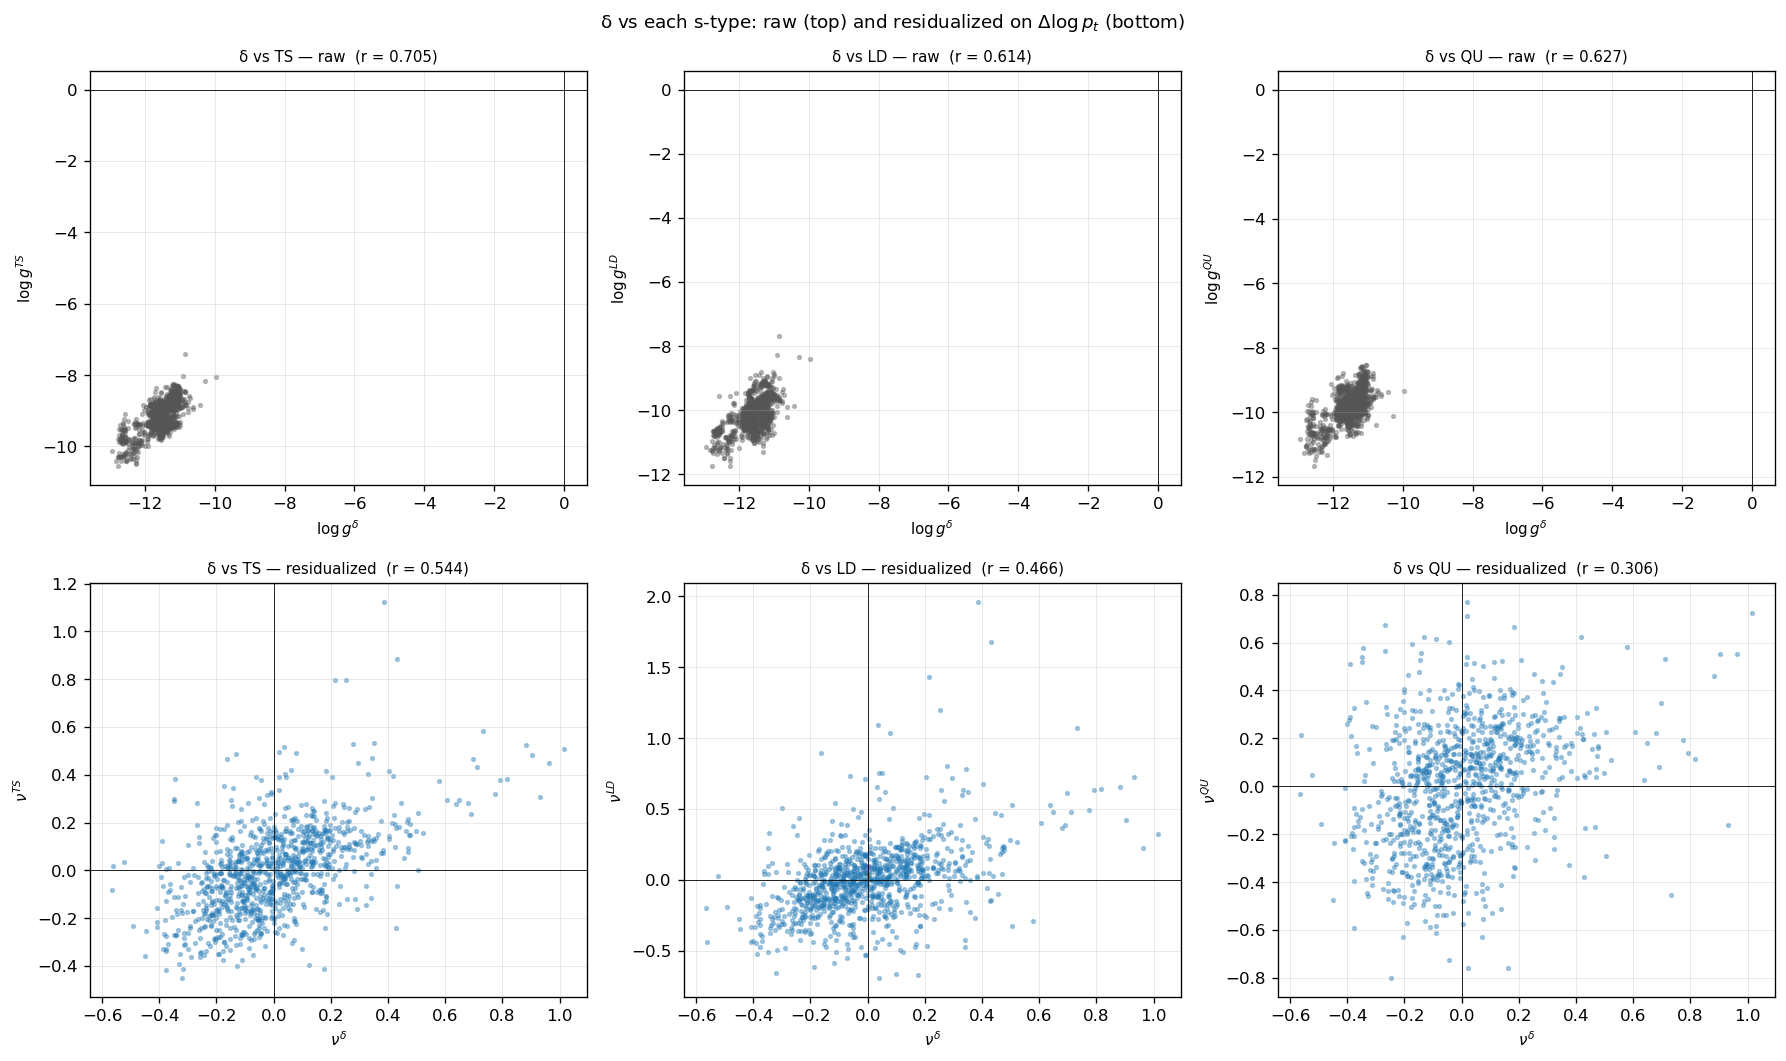
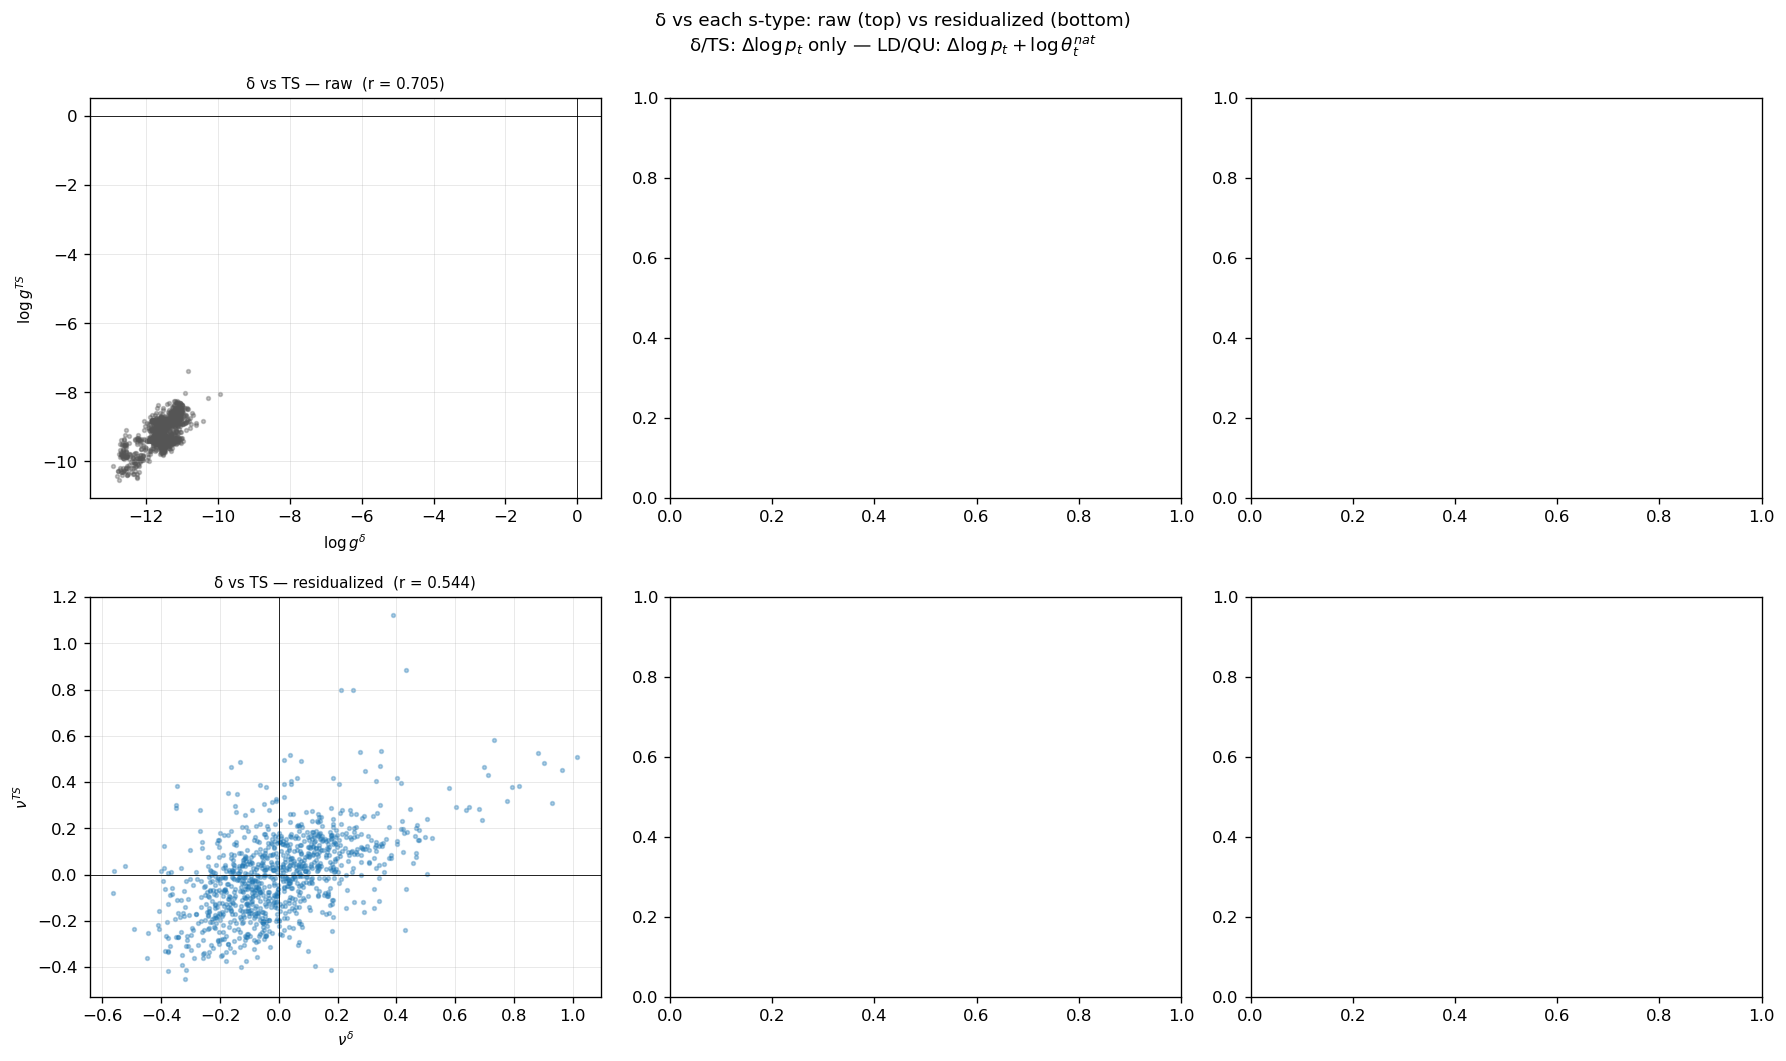
Start change in residualization

diff --git a/Data/Bartek analysis/part2b_shock_comovement.py b/Data/Bartek analysis/part2b_shock_comovement.py
@@ -7,23 +7,38 @@ aggregation).
 Purpose
 -------
 In the model, δ and s are exogenous AR(1) processes independent of technology
-z.  In the data, both series contain an endogenous component driven by
-aggregate productivity: firms close and workers separate partly because
-productivity falls.  This file asks two questions:
+z.  In the data, both series contain endogenous components driven by aggregate
+productivity and/or labor-market tightness.  This file asks two questions:
 
   1. How much do g^δ and g^s co-move across industries and over time?
      High co-movement implies the Bartik instruments B^δ and B^s will be
      nearly collinear, undermining separate identification.
 
-  2. How much of that co-movement is explained by aggregate productivity?
-     We follow Coles-Kelishomi (2018), who find corr(p_t, δ_t) = −0.63,
-     and residualize each series on productivity to isolate the idiosyncratic
-     component.  The regressor is Δlog p_t (quarterly log-growth) rather
-     than log-levels, which have a trend and would produce spurious
-     coefficients.
+  2. How much of that co-movement is explained by aggregate productivity
+     and market tightness?  We residualize each series on the appropriate
+     aggregate controls to isolate the idiosyncratic component.
 
-Regression:
-    log g^k_{j,t} = α_j + γ_k Δlog p_t + ν^k_{j,t},   k ∈ {δ, s}
+Residualization strategy (shock-specific):
+    log g^δ_{j,t}  = α_j + γ_δ  Δlog p_t                     + ν^δ_{j,t}
+    log g^TS_{j,t} = α_j + γ_TS Δlog p_t                     + ν^TS_{j,t}
+    log g^LD_{j,t} = α_j + γ_LD Δlog p_t + λ_LD log θ_t^nat  + ν^LD_{j,t}
+    log g^QU_{j,t} = α_j + γ_QU Δlog p_t + λ_QU log θ_t^nat  + ν^QU_{j,t}
+
+Motivation:
+    δ    — endogenous product-line destruction driven by idiosyncratic
+            productivity draws; Δlog p_t is the appropriate control.
+    LD   — employer-initiated layoffs respond to both productivity and
+            aggregate demand (tightness raises retention costs); both
+            controls are included.
+    QU   — quit propensity is driven by outside options summarised by
+            market tightness θ = V/U; both controls are included.
+    TS   — total separations = LD + QU; productivity control only
+            (dominated by LD in recessions; tightness channel addressed
+            by the separate LD/QU decomposition).
+
+θ_t^nat = V_t^nat / U_t^nat: national JOLTS job openings ÷ civilian
+unemployment (both seasonally adjusted, levels).  log θ_t is stationary
+so it enters in log-levels; Δlog p_t is used because log p has a trend.
 
 The residuals ν^δ and ν^s are the closest empirical analog to the truly
 exogenous shocks in the model.
@@ -80,7 +95,8 @@ from construct_s_instrument import (
 )
 
 # ── paths ──────────────────────────────────────────────────────────────────
-PROD_CACHE    = DEFAULT_CACHE_DIR / "ophnfb_quarterly.parquet"
+PROD_CACHE      = DEFAULT_CACHE_DIR / "ophnfb_quarterly.parquet"
+TIGHTNESS_CACHE = DEFAULT_CACHE_DIR / "national_tightness_quarterly.parquet"
 RESID_D_PATH  = DEFAULT_OUTPUT_DIR / "shock_rates_delta_resid.parquet"
 RESID_S_PATH  = DEFAULT_OUTPUT_DIR / "shock_rates_s_resid.parquet"
 RESID_LD_PATH = DEFAULT_OUTPUT_DIR / "shock_rates_ld_resid.parquet"
@@ -207,6 +223,46 @@ nat = nat.merge(prod[["quarter_label", "dlog_p", "dlog_p_yoy"]],
                 on="quarter_label", how="inner")
 print(f"After merging productivity: {len(nat):,} industry-quarter obs")
 
+# ── 3b. national market tightness ──────────────────────────────────────────
+# θ_t^nat = V_t^nat / U_t^nat  (JOLTS job openings ÷ civilian unemployment,
+# both SA levels in thousands).  Monthly → quarterly by averaging within
+# quarter.  log θ is stationary so we use log-levels as the regressor.
+# JOLTS starts 2000M12; first complete quarter is 2001Q1 — which is already
+# the binding start of the overlapping sample.
+
+if TIGHTNESS_CACHE.exists():
+    tight = pd.read_parquet(TIGHTNESS_CACHE)
+    print(f"\nTightness: loaded from cache ({TIGHTNESS_CACHE})")
+else:
+    print("\nFetching national tightness (JTSJOL, UNEMPLOY) from FRED ...")
+    api_key = os.environ.get("FRED_API_KEY", "")
+    if not api_key:
+        raise EnvironmentError(
+            "FRED_API_KEY environment variable not set.\n"
+            "Register at https://fred.stlouisfed.org/docs/api/api_key.html "
+            "and set the variable before running."
+        )
+    fred    = Fred(api_key=api_key)
+    vac_m   = fred.get_series("JTSJOL")     # job openings, thousands, SA
+    unemp_m = fred.get_series("UNEMPLOY")   # unemployment, thousands, SA
+    tight_m = pd.DataFrame({"vac": vac_m, "unemp": unemp_m}).dropna()
+    tight_m.index = pd.to_datetime(tight_m.index)
+    tight_m["quarter_label"] = tight_m.index.map(_dt_to_ql)
+    tight = (tight_m.groupby("quarter_label")[["vac", "unemp"]]
+                    .mean().reset_index())
+    tight["theta"]     = tight["vac"] / tight["unemp"]
+    tight["log_theta"] = np.log(tight["theta"])
+    tight = tight[["quarter_label", "log_theta"]].copy()
+    tight.to_parquet(TIGHTNESS_CACHE, index=False)
+    print(f"  Saved: {TIGHTNESS_CACHE}")
+
+tight = tight.sort_values("quarter_label").reset_index(drop=True)
+print(f"  Tightness: {tight['quarter_label'].min()} – "
+      f"{tight['quarter_label'].max()}  ({len(tight)} quarters)")
+
+nat = nat.merge(tight, on="quarter_label", how="inner")
+print(f"After merging tightness: {len(nat):,} industry-quarter obs")
+
 # ── 4. residualization ─────────────────────────────────────────────────────
 # Regression:  log g^k_{j,t} = α_j + γ_k Δlog p_t + ν^k_{j,t}
 # Industry FEs absorbed via within-transformation (subtract industry means).
@@ -215,32 +271,43 @@ print(f"After merging productivity: {len(nat):,} industry-quarter obs")
 # residual as a named column.  We merge back into nat rather than assigning
 # into it directly, which is the most robust approach across pandas versions.
 
-def _residualize(df, dep_col, resid_col, prod_col="dlog_p"):
+def _residualize(df, dep_col, resid_col, reg_cols=("dlog_p",)):
     """
-    OLS of dep_col on industry FEs + prod_col.
-    Prints γ and within-R².
+    Within-industry OLS of dep_col on industry FEs + reg_cols.
+
+    reg_cols : tuple of column names to use as regressors alongside
+               industry fixed effects.  Homogeneous coefficients across
+               industries (single γ / λ per regressor).
 
     df must be sorted by [industry_code, quarter_label] with a clean
     0-based index (call nat.sort_values(...).reset_index(drop=True) first).
     Returns a DataFrame with the same row order as df and a column named
     resid_col containing the residuals as a numpy-backed float64 series.
     """
-    # Work on a fresh 0-based copy in the same row order as df.
-    work = df[["industry_code", dep_col, prod_col]].copy().reset_index(drop=True)
+    work = df[["industry_code", dep_col, *reg_cols]].copy().reset_index(drop=True)
 
-    # Within-transform: subtract each industry's mean.
+    # Within-transform: subtract each industry's time-mean.
     work["y_dm"] = (work[dep_col]
                     - work.groupby("industry_code")[dep_col].transform("mean"))
-    work["p_dm"] = (work[prod_col]
-                    - work.groupby("industry_code")[prod_col].transform("mean"))
+    dm_cols = []
+    for rc in reg_cols:
+        dc = f"_dm_{rc}"
+        work[dc] = (work[rc]
+                    - work.groupby("industry_code")[rc].transform("mean"))
+        dm_cols.append(dc)
 
-    gamma  = ((work["y_dm"] * work["p_dm"]).sum()
-              / (work["p_dm"] ** 2).sum())
-    resid  = (work["y_dm"] - gamma * work["p_dm"]).to_numpy()   # plain numpy array
-    ss_tot = (work["y_dm"] ** 2).sum()
+    X_dm   = work[dm_cols].to_numpy()          # (n, K)
+    y_dm   = work["y_dm"].to_numpy()           # (n,)
+    gammas = np.linalg.lstsq(X_dm, y_dm, rcond=None)[0]   # (K,)
+    resid  = y_dm - X_dm @ gammas
+
+    ss_tot = (y_dm ** 2).sum()
     r2     = 1 - (resid ** 2).sum() / ss_tot if ss_tot > 0 else np.nan
 
-    print(f"  {resid_col:<10}  γ = {gamma:+.4f}   R²(within) = {r2:.4f}")
+    coef_str = "  ".join(
+        f"γ({rc}) = {g:+.4f}" for rc, g in zip(reg_cols, gammas)
+    )
+    print(f"  {resid_col:<12}  {coef_str}   R²(within) = {r2:.4f}")
 
     out = df[["industry_code", "quarter_label"]].copy().reset_index(drop=True)
     out[resid_col] = resid
@@ -251,11 +318,17 @@ def _residualize(df, dep_col, resid_col, prod_col="dlog_p"):
 # row order, so returned arrays align positionally with nat's rows.
 nat = nat.sort_values(["industry_code", "quarter_label"]).reset_index(drop=True)
 
-print(f"\n--- Productivity regression  (\u0394log p_t, quarterly growth) ---")
-resid_d  = _residualize(nat, "log_g_delta", "nu_delta")
-resid_s  = _residualize(nat, "log_g_s",     "nu_s")
-resid_ld = _residualize(nat, "log_g_ld",    "nu_ld")
-resid_qu = _residualize(nat, "log_g_qu",    "nu_qu")
+print(f"\n--- Residualization (within-industry OLS) ---")
+print(f"  δ,  TS : regressors = [Δlog p_t]")
+print(f"  LD, QU : regressors = [Δlog p_t,  log θ_t^nat]")
+resid_d  = _residualize(nat, "log_g_delta", "nu_delta",
+                        reg_cols=("dlog_p",))
+resid_s  = _residualize(nat, "log_g_s",     "nu_s",
+                        reg_cols=("dlog_p",))
+resid_ld = _residualize(nat, "log_g_ld",    "nu_ld",
+                        reg_cols=("dlog_p", "log_theta"))
+resid_qu = _residualize(nat, "log_g_qu",    "nu_qu",
+                        reg_cols=("dlog_p", "log_theta"))
 
 nat["nu_delta"] = resid_d["nu_delta"].to_numpy()
 nat["nu_s"]     = resid_s["nu_s"].to_numpy()
@@ -365,11 +438,32 @@ print(f"\nPlot A saved: {p}")
 # ── plot B: cross-industry correlation heatmaps, 2×4 grid ─────────────────
 # Row 1: raw series; Row 2: residualized
 def _corr_matrix(df, col):
-    """Cross-industry Pearson r matrix (industries × industries)."""
-    wide = df.pivot_table(index="quarter_label",
-                          columns="industry_label",
-                          values=col, aggfunc="mean")
-    return wide.corr()
+    """Cross-industry Pearson r matrix (industries × industries).
+
+    Builds the quarter × industry matrix via direct numpy integer indexing,
+    completely bypassing pandas groupby / pivot_table / pivot — all of which
+    have version-specific bugs in pandas 2.x that silently drop the aggregated
+    column from the result (causing KeyError on the subsequent values lookup).
+
+    nat is already aggregated at (industry_code, quarter_label) level, so each
+    (quarter_label, industry_label) cell holds at most one value; if a
+    duplicate somehow exists the last row wins (harmless).
+    """
+    sub = (df[["quarter_label", "industry_label", col]]
+           .dropna(subset=[col])
+           .reset_index(drop=True))
+    quarters   = sorted(sub["quarter_label"].unique())
+    industries = sorted(sub["industry_label"].unique())
+    if not quarters or not industries:
+        return pd.DataFrame()
+    q_map = {q: i for i, q in enumerate(quarters)}
+    i_map = {ind: i for i, ind in enumerate(industries)}
+    mat = np.full((len(quarters), len(industries)), np.nan)
+    qi = sub["quarter_label"].map(q_map).to_numpy(dtype=int)
+    ii = sub["industry_label"].map(i_map).to_numpy(dtype=int)
+    mat[qi, ii] = sub[col].to_numpy()
+    wide = pd.DataFrame(mat, index=quarters, columns=industries)
+    return wide.dropna(how="all", axis=1).corr()
 
 hmap_panels = [
     (r"$\log g^\delta$ raw",  "log_g_delta"),
@@ -441,7 +535,9 @@ for col_idx, (lbl, rx, ry, nx, ny, rxl, ryl, nxl, nyl) in enumerate(scatter_pair
     ax.axvline(0, color="black", linewidth=0.5)
     ax.grid(linewidth=0.4, alpha=0.4)
 fig.suptitle(
-    r"δ vs each s-type: raw (top) and residualized on $\Delta\log p_t$ (bottom)",
+    r"δ vs each s-type: raw (top) vs residualized (bottom)"
+    "\n"
+    r"δ/TS: $\Delta\log p_t$ only — LD/QU: $\Delta\log p_t + \log\theta_t^{nat}$",
     fontsize=11,
 )
 fig.tight_layout()

diff --git a/Data/Bartek analysis/part3_resid_instruments.py b/Data/Bartek analysis/part3_resid_instruments.py
@@ -1,16 +1,19 @@
 """
-part3_resid_instruments.py — Bartik instruments from productivity-residualized shocks
-======================================================================================
-Constructs productivity-residualized Bartik instruments for all four shock
-series produced by part2b_shock_comovement.py:
+part3_resid_instruments.py — Bartik instruments from residualized shocks
+=========================================================================
+Constructs residualized Bartik instruments for all four shock series
+produced by part2b_shock_comovement.py:
 
     B̃^δ_{s,t}  = Σ_j  ω_{s,j}  ν^δ_{j,t}    (product-line destruction)
     B̃^TS_{s,t} = Σ_j  ω_{s,j}  ν^TS_{j,t}   (total separations)
     B̃^LD_{s,t} = Σ_j  ω_{s,j}  ν^LD_{j,t}   (layoffs and discharges)
     B̃^QU_{s,t} = Σ_j  ω_{s,j}  ν^QU_{j,t}   (quits)
 
-where ν^k_{j,t} are residuals from:
-    log g^k_{j,t} = α_j + γ_k Δlog p_t + ν^k_{j,t}
+where ν^k_{j,t} are residuals from shock-specific regressions (see part2b):
+    log g^δ_{j,t}  = α_j + γ_δ  Δlog p_t                    + ν^δ_{j,t}
+    log g^TS_{j,t} = α_j + γ_TS Δlog p_t                    + ν^TS_{j,t}
+    log g^LD_{j,t} = α_j + γ_LD Δlog p_t + λ_LD log θ_t^nat + ν^LD_{j,t}
+    log g^QU_{j,t} = α_j + γ_QU Δlog p_t + λ_QU log θ_t^nat + ν^QU_{j,t}
 
 The employment shares ω_{s,j} are identical to those used in part3 and
 part3_instrument_s (base-year 2006 QCEW shares).
@@ -387,7 +390,9 @@ if RAW_D_PATH.exists() and RAW_S_PATH.exists():
         ax.axhline(0, color="black", linewidth=0.5)
         ax.axvline(0, color="black", linewidth=0.5)
         ax.grid(linewidth=0.4, alpha=0.4)
-    fig.suptitle("Raw vs. productivity-residualized Bartik instruments\n"
+    fig.suptitle("Raw vs. residualized Bartik instruments\n"
+                 r"($\delta$/TS: $\Delta\log p$ only — LD/QU: $\Delta\log p + \log\theta^{nat}$)"
+                 "\n"
                  "(each point = one state-quarter)", fontsize=11)
     fig.tight_layout()
     p = RESULTS_DIR / "instruments_resid_vs_raw_scatter.png"
